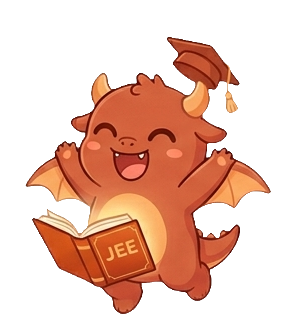
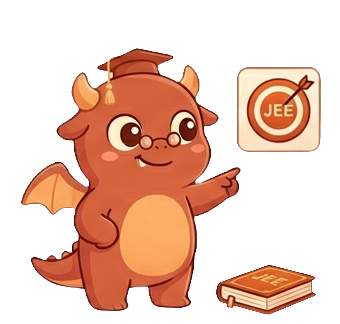
mascot fully added

diff --git a/app/routes/tests._index.tsx b/app/routes/tests._index.tsx
@@ -6,6 +6,7 @@ import { createServerClient } from "~/lib/supabase.server";
 import { Sidebar } from "~/components/sidebar";
 import { DotMenu } from "~/components/three-dot-menu";
 import { IconLayers, IconPlus, IconPlay, IconTests, IconTrash, IconX, IconFlash } from "~/components/icons";
+import { useFetcher as useQuickFetcher } from "react-router";
 
 type TestSummary = {
   id: string; title: string; duration_mins: number;
@@ -132,6 +133,63 @@ export async function action({ request, context }: Route.ActionArgs) {
     return null;
   }
 
+  if (intent === "quick_chemistry_test") {
+    // Pull all chemistry SCQs owned by this user
+    const { data: qs } = await supabase
+      .from("questions")
+      .select("id")
+      .eq("owner_id", user.id)
+      .eq("subject", "chemistry")
+      .eq("type", "scq");
+
+    const pool = (qs ?? []) as { id: string }[];
+    if (pool.length === 0) return data({ error: "No Chemistry SCQs found in your library." }, { status: 400 });
+
+    // Fisher-Yates shuffle
+    for (let j = pool.length - 1; j > 0; j--) {
+      const k = Math.floor(Math.random() * (j + 1));
+      [pool[j], pool[k]] = [pool[k], pool[j]];
+    }
+
+    // Pick a random count between 10 and 15 (capped to what's available)
+    const targetCount = Math.min(pool.length, 10 + Math.floor(Math.random() * 6));
+    const picked      = pool.slice(0, targetCount);
+
+    // Duration: 2 minutes per question
+    const durationMins = targetCount * 2;
+
+    const now = new Date();
+    const label = `${now.toLocaleDateString("en-IN", { day: "numeric", month: "short" })} ${now.toLocaleTimeString("en-IN", { hour: "2-digit", minute: "2-digit" })}`;
+    const title = `Quick Chemistry · ${picked.length}Q · ${label}`;
+
+    const { data: test, error: testErr } = await supabase
+      .from("tests")
+      .insert({ owner_id: user.id, title, duration_mins: durationMins, is_published: true })
+      .select("id")
+      .single();
+    if (testErr || !test) return data({ error: "Failed to create quick test." }, { status: 500 });
+
+    const { data: sec, error: secErr } = await supabase
+      .from("test_sections")
+      .insert({
+        test_id: test.id,
+        name: "Chemistry — Mixed SCQ",
+        question_type: "scq",
+        subject: "chemistry",
+        marks_correct: 4,
+        marks_wrong: -1,
+        display_order: 1,
+      })
+      .select("id")
+      .single();
+    if (secErr || !sec) return data({ error: "Failed to create section." }, { status: 500 });
+
+    await supabase.from("test_questions").insert(
+      picked.map((q, idx) => ({ test_section_id: sec.id, question_id: q.id, display_order: idx + 1 }))
+    );
+
+    throw redirect(`/tests/${test.id}/preview`);
+  }
 
   return null;
 }
@@ -483,6 +541,7 @@ export default function TestsIndex({ loaderData, actionData }: Route.ComponentPr
   const { user, tests } = loaderData;
   const error = actionData && "error" in actionData ? actionData.error : null;
   const [showCreate, setShowCreate] = useState(false);
+  const quickFetcher = useQuickFetcher();
 
   const unattempted = tests.filter((t) => !t.submitted);
   const attempted   = tests.filter((t) => t.submitted);
@@ -498,6 +557,17 @@ export default function TestsIndex({ loaderData, actionData }: Route.ComponentPr
           </div>
           {tests.length > 0 && (
             <div style={{ display: "flex", gap: 8 }}>
+              <quickFetcher.Form method="post">
+                <input type="hidden" name="intent" value="quick_chemistry_test" />
+                <button
+                  type="submit"
+                  className="btn btn-ghost btn-sm"
+                  title="Pick 10–15 random Chemistry SCQs and start immediately"
+                  disabled={quickFetcher.state !== "idle"}
+                >
+                  ⚗ {quickFetcher.state !== "idle" ? "Creating…" : "Quick test"}
+                </button>
+              </quickFetcher.Form>
               <Link to="/tests/generate" className="btn btn-ghost btn-sm">
                 <IconFlash size={14} /> Generate
               </Link>
@@ -512,11 +582,17 @@ export default function TestsIndex({ loaderData, actionData }: Route.ComponentPr
           {tests.length === 0 ? (
             <>
               <div className="lib-empty">
-                <div className="lib-empty-icon" style={{ color: "var(--c-brand-400)" }}><IconLayers size={28} /></div>
+                <img src="/jeelo-reading.png" alt="" className="lib-empty-mascot" draggable={false} />
                 <p className="lib-empty-title">No tests yet</p>
                 <p className="lib-empty-body">Create your first test. Every wrong answer automatically becomes the next layer.</p>
                 <div style={{ display: "flex", gap: 8, justifyContent: "center", flexWrap: "wrap" }}>
                   <button className="btn btn-primary" onClick={() => setShowCreate(true)}><IconPlus size={15} /> Create a test</button>
+                  <quickFetcher.Form method="post">
+                    <input type="hidden" name="intent" value="quick_chemistry_test" />
+                    <button type="submit" className="btn btn-ghost" disabled={quickFetcher.state !== "idle"}>
+                      ⚗ {quickFetcher.state !== "idle" ? "Creating…" : "Quick Chemistry test"}
+                    </button>
+                  </quickFetcher.Form>
                 </div>
               </div>
               <LayeredExplainer />

diff --git a/app/root.tsx b/app/root.tsx
@@ -7,12 +7,35 @@ import { useRouteError } from "react-router";
 export function ErrorBoundary() {
   const error = useRouteError() as any;
   return (
-    <html><body style={{fontFamily:"monospace",padding:40}}>
-      <h1>ERROR</h1>
-      <pre>{error?.status} {error?.statusText}</pre>
-      <pre>{error?.data}</pre>
-      <pre>{JSON.stringify(error, null, 2)}</pre>
-    </body></html>
+    <html>
+      <head><meta charSet="utf-8" /><meta name="viewport" content="width=device-width, initial-scale=1" /><title>Something went wrong · Jeelo</title></head>
+      <body style={{ margin: 0, fontFamily: "system-ui, sans-serif", background: "#fdf8f5", display: "flex", alignItems: "center", justifyContent: "center", minHeight: "100vh" }}>
+        <div style={{ textAlign: "center", padding: "40px 24px", maxWidth: 460 }}>
+          <img src="/jeelo-reading.png" alt="" draggable={false}
+            style={{ width: 140, height: "auto", marginBottom: 24, opacity: 0.9 }} />
+          <h1 style={{ fontSize: 22, fontWeight: 700, color: "#1a1a1a", margin: "0 0 10px" }}>Something went wrong</h1>
+          <p style={{ fontSize: 14, color: "#666", margin: "0 0 28px", lineHeight: 1.6 }}>
+            {error?.status === 404
+              ? "We couldn't find that page."
+              : "An unexpected error occurred. Try refreshing — if it keeps happening, let us know."}
+          </p>
+          <div style={{ display: "flex", gap: 10, justifyContent: "center" }}>
+            <a href="/" style={{ background: "#c0623a", color: "#fff", borderRadius: 8, padding: "10px 22px", fontSize: 14, fontWeight: 600, textDecoration: "none" }}>
+              Go home
+            </a>
+            <button onClick={() => window.location.reload()}
+              style={{ background: "transparent", border: "1.5px solid #ddd", borderRadius: 8, padding: "10px 22px", fontSize: 14, fontWeight: 600, cursor: "pointer", color: "#444" }}>
+              Retry
+            </button>
+          </div>
+          {error?.status && (
+            <p style={{ marginTop: 32, fontSize: 11, color: "#bbb", fontFamily: "monospace" }}>
+              {error.status} {error.statusText}
+            </p>
+          )}
+        </div>
+      </body>
+    </html>
   );
 }
 

diff --git a/app/styles/global-additions.css b/app/styles/global-additions.css
@@ -821,3 +821,27 @@ select:focus {
   from { opacity: 0; transform: translateY(20px) scale(0.85); }
   to   { opacity: 1; transform: translateY(0)    scale(1); }
 }
+
+/* ── Empty states ────────────────────────────────────────────── */
+.lib-empty-mascot {
+  width: 110px;
+  height: auto;
+  margin-bottom: 4px;
+  animation: mascot-bounce 0.6s cubic-bezier(0.16,1,0.3,1) both;
+  pointer-events: none;
+  filter: drop-shadow(0 6px 16px rgba(180,90,40,0.15));
+}
+
+/* ── Result celebration splash ───────────────────────────────── */
+.splash-mascot-celebrate {
+  width: clamp(160px, 28vw, 280px);
+  height: auto;
+  animation: celebrate-pop 0.7s cubic-bezier(0.16,1,0.3,1) both;
+  pointer-events: none;
+}
+
+@keyframes celebrate-pop {
+  from { opacity: 0; transform: scale(0.6) translateY(40px); }
+  70%  { transform: scale(1.08) translateY(-6px); }
+  to   { opacity: 1; transform: scale(1) translateY(0); }
+}

diff --git a/app/routes/library.folders.$id.tsx b/app/routes/library.folders.$id.tsx
@@ -387,6 +387,7 @@ export default function FolderView({ loaderData }: Route.ComponentProps) {
             </div>
             {questions.length === 0 ? (
               <div className="lib-empty" style={{ padding: "40px 24px" }}>
+                <img src="/jeelo-reading.png" alt="" className="lib-empty-mascot" draggable={false} />
                 <p className="lib-empty-title">{filter.subject || filter.type ? "No questions match this filter" : "This folder is empty"}</p>
                 <p className="lib-empty-body">{filter.subject || filter.type ? "Try clearing the filters." : "Add questions to this folder to get started."}</p>
                 {!filter.subject && !filter.type && <Link to={`/questions/new?folder_id=${folder.id}`} className="btn btn-primary"><IconPlus size={14} /> Add question</Link>}

diff --git a/app/routes/library._index.tsx b/app/routes/library._index.tsx
@@ -272,7 +272,7 @@ export default function LibraryIndex({ loaderData }: Route.ComponentProps) {
         <div className="pg-body">
           {folders.length === 0 ? (
             <div className="lib-empty">
-              <div className="lib-empty-icon"><IconFolder size={28} /></div>
+              <img src="/jeelo-reading.png" alt="" className="lib-empty-mascot" draggable={false} />
               <p className="lib-empty-title">Your library is empty</p>
               <p className="lib-empty-body">Create a folder to start organising your questions.</p>
               <div style={{ display: "flex", gap: 10 }}>

diff --git a/app/routes/tests.$id.result.tsx b/app/routes/tests.$id.result.tsx
@@ -458,7 +458,7 @@ export default function TestResultPage({ loaderData }: Route.ComponentProps) {
     <div style={{ minHeight: "100vh" }}>
       {showResultSplash && (
         <div className="splash" aria-hidden="true">
-          <img src="/jeelo-logo.png" alt="Jeelo" className="splash-mascot-logo" draggable={false} />
+          <img src="/jeelo-jumping.png" alt="" className="splash-mascot-celebrate" draggable={false} />
         </div>
       )}
 

diff --git a/app/components/sidebar.tsx b/app/components/sidebar.tsx
@@ -49,7 +49,7 @@ export function Sidebar({ displayName }: SidebarProps) {
   return (
     <aside className="sidebar">
       <Link to="/library" className="sb-logo" aria-label="Jeelo home">
-        <img src="/jeelo-pointing.png" alt="Jeelo" className="sb-mascot" draggable={false} />
+        <img src="/jeelo-reading.png" alt="Jeelo" className="sb-mascot" draggable={false} />
       </Link>
 
       <nav className="sb-nav">
